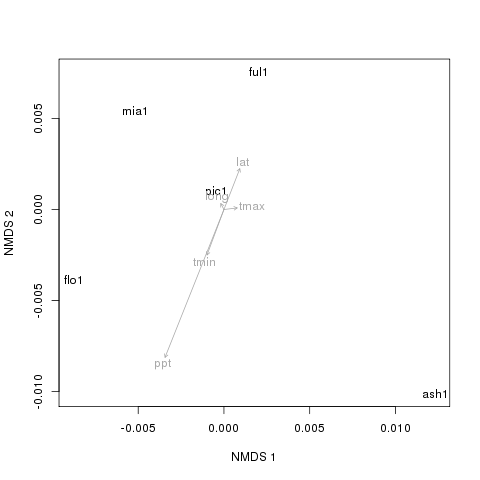
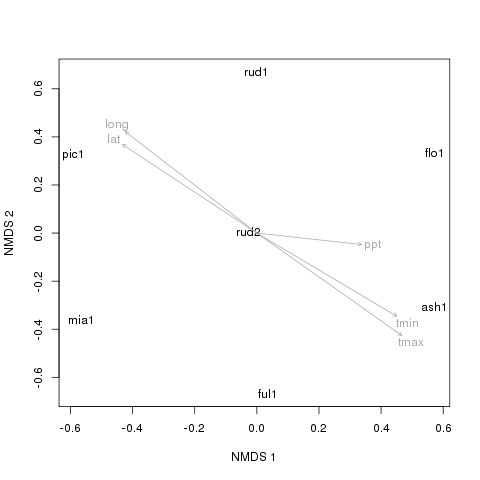
update results to include rudis again

diff --git a/results/worldclim_apg_vectors.tex b/results/worldclim_apg_vectors.tex
@@ -1,32 +1,32 @@
 % latex table generated in R 3.4.2 by xtable 1.8-2 package
-% Sun Feb 18 20:11:44 2018
+% Tue Mar 20 17:26:06 2018
 \begin{table}[ht]
 \centering
 \begin{tabular}{rrr}
   \hline
  & r & p \\ 
   \hline
-MDR: Mean Diurnal Range (Mean of monthly (max temp - min temp)) (BIO2) & 0.811 & 0.150 \\ 
-  PCQ: Precipitation of Coldest Quarter (BIO19) & 0.742 & 0.333 \\ 
-  PA: Annual Precipitation (BIO12) & 0.344 & 0.700 \\ 
-  PWM: Precipitation of Wettest Month (BIO13) & 0.332 & 0.700 \\ 
-  PWeQ: Precipitation of Wettest Quarter (BIO16) & 0.342 & 0.700 \\ 
-  PWaQ: Precipitation of Warmest Quarter (BIO18) & 0.335 & 0.700 \\ 
-  TS: Temperature Seasonality (standard deviation *100) (BIO4) & 0.104 & 0.800 \\ 
-  Tmin: Min Temperature of Coldest Month (BIO6) & 0.066 & 0.800 \\ 
-  ATR: Temperature Annual Range (BIO5-BIO6) (BIO7) & 0.122 & 0.800 \\ 
-  PS: Precipitation Seasonality (Coefficient of Variation) (BIO15) & 0.268 & 0.800 \\ 
-  Latitude & 0.058 & 0.850 \\ 
-  MAT: Annual Mean Temperature (BIO1) & 0.047 & 0.850 \\ 
-  Iso: Isothermality (BIO2/BIO7) (* 100) (BIO3) & 0.069 & 0.850 \\ 
-  MTCQ: Mean Temperature of Coldest Quarter (BIO11) & 0.058 & 0.850 \\ 
-  MTWeQ: Mean Temperature of Wettest Quarter (BIO8) & 0.009 & 0.867 \\ 
-  MTWaQ: Mean Temperature of Warmest Quarter (BIO10) & 0.012 & 0.867 \\ 
-  PDM: Precipitation of Driest Month (BIO14) & 0.026 & 0.867 \\ 
-  Tmax: Max Temperature of Warmest Month (BIO5) & 0.003 & 0.933 \\ 
-  PDQ: Precipitation of Driest Quarter (BIO17) & 0.033 & 0.950 \\ 
-  Longitude & 0.001 & 1.000 \\ 
-  MTDQ: Mean Temperature of Driest Quarter (BIO9) & 0.002 & 1.000 \\ 
+MDR: Mean Diurnal Range (Mean of monthly (max temp - min temp)) (BIO2) & 0.270 & 0.540 \\ 
+  PCQ: Precipitation of Coldest Quarter (BIO19) & 0.252 & 0.542 \\ 
+  PA: Annual Precipitation (BIO12) & 0.203 & 0.659 \\ 
+  PWaQ: Precipitation of Warmest Quarter (BIO18) & 0.173 & 0.703 \\ 
+  PWeQ: Precipitation of Wettest Quarter (BIO16) & 0.173 & 0.707 \\ 
+  PWM: Precipitation of Wettest Month (BIO13) & 0.166 & 0.721 \\ 
+  ATR: Temperature Annual Range (BIO5-BIO6) (BIO7) & 0.128 & 0.771 \\ 
+  MTWeQ: Mean Temperature of Wettest Quarter (BIO8) & 0.093 & 0.799 \\ 
+  TS: Temperature Seasonality (standard deviation *100) (BIO4) & 0.110 & 0.801 \\ 
+  Tmin: Min Temperature of Coldest Month (BIO6) & 0.100 & 0.802 \\ 
+  PS: Precipitation Seasonality (Coefficient of Variation) (BIO15) & 0.127 & 0.802 \\ 
+  Iso: Isothermality (BIO2/BIO7) (* 100) (BIO3) & 0.102 & 0.807 \\ 
+  MTCQ: Mean Temperature of Coldest Quarter (BIO11) & 0.091 & 0.808 \\ 
+  Latitude & 0.089 & 0.815 \\ 
+  MAT: Annual Mean Temperature (BIO1) & 0.084 & 0.816 \\ 
+  MTWaQ: Mean Temperature of Warmest Quarter (BIO10) & 0.064 & 0.845 \\ 
+  Longitude & 0.046 & 0.902 \\ 
+  Tmax: Max Temperature of Warmest Month (BIO5) & 0.039 & 0.912 \\ 
+  MTDQ: Mean Temperature of Driest Quarter (BIO9) & 0.040 & 0.919 \\ 
+  PDQ: Precipitation of Driest Quarter (BIO17) & 0.029 & 0.956 \\ 
+  PDM: Precipitation of Driest Month (BIO14) & 0.024 & 0.959 \\ 
    \hline
 \end{tabular}
 \caption{Results of the NMS ordination vector analysis for only Aphaenogaster spp.} 

diff --git a/results/worldclim_vectors.tex b/results/worldclim_vectors.tex
@@ -1,32 +1,32 @@
 % latex table generated in R 3.4.2 by xtable 1.8-2 package
-% Sun Feb 18 20:11:44 2018
+% Tue Mar 20 17:26:06 2018
 \begin{table}[ht]
 \centering
 \begin{tabular}{rrr}
   \hline
  & r & p \\ 
   \hline
-PCQ: Precipitation of Coldest Quarter (BIO19) & 0.400 & 0.008 \\ 
-  MTWaQ: Mean Temperature of Warmest Quarter (BIO10) & 0.216 & 0.098 \\ 
-  PWM: Precipitation of Wettest Month (BIO13) & 0.216 & 0.100 \\ 
-  PWeQ: Precipitation of Wettest Quarter (BIO16) & 0.206 & 0.114 \\ 
-  PA: Annual Precipitation (BIO12) & 0.203 & 0.119 \\ 
-  Tmax: Max Temperature of Warmest Month (BIO5) & 0.188 & 0.142 \\ 
-  Iso: Isothermality (BIO2/BIO7) (* 100) (BIO3) & 0.184 & 0.145 \\ 
-  Longitude & 0.178 & 0.153 \\ 
-  MAT: Annual Mean Temperature (BIO1) & 0.176 & 0.159 \\ 
-  Tmin: Min Temperature of Coldest Month (BIO6) & 0.166 & 0.181 \\ 
-  MTDQ: Mean Temperature of Driest Quarter (BIO9) & 0.162 & 0.186 \\ 
-  MTCQ: Mean Temperature of Coldest Quarter (BIO11) & 0.148 & 0.215 \\ 
-  ATR: Temperature Annual Range (BIO5-BIO6) (BIO7) & 0.136 & 0.249 \\ 
-  MDR: Mean Diurnal Range (Mean of monthly (max temp - min temp)) (BIO2) & 0.114 & 0.313 \\ 
-  TS: Temperature Seasonality (standard deviation *100) (BIO4) & 0.089 & 0.412 \\ 
-  PDM: Precipitation of Driest Month (BIO14) & 0.090 & 0.413 \\ 
-  MTWeQ: Mean Temperature of Wettest Quarter (BIO8) & 0.087 & 0.428 \\ 
-  Latitude & 0.051 & 0.608 \\ 
-  PS: Precipitation Seasonality (Coefficient of Variation) (BIO15) & 0.037 & 0.695 \\ 
-  PDQ: Precipitation of Driest Quarter (BIO17) & 0.037 & 0.699 \\ 
-  PWaQ: Precipitation of Warmest Quarter (BIO18) & 0.007 & 0.937 \\ 
+PCQ: Precipitation of Coldest Quarter (BIO19) & 0.406 & 0.004 \\ 
+  Iso: Isothermality (BIO2/BIO7) (* 100) (BIO3) & 0.386 & 0.005 \\ 
+  MTDQ: Mean Temperature of Driest Quarter (BIO9) & 0.307 & 0.019 \\ 
+  PWM: Precipitation of Wettest Month (BIO13) & 0.285 & 0.029 \\ 
+  PWeQ: Precipitation of Wettest Quarter (BIO16) & 0.279 & 0.032 \\ 
+  Tmin: Min Temperature of Coldest Month (BIO6) & 0.276 & 0.033 \\ 
+  MAT: Annual Mean Temperature (BIO1) & 0.265 & 0.037 \\ 
+  MTCQ: Mean Temperature of Coldest Quarter (BIO11) & 0.263 & 0.039 \\ 
+  ATR: Temperature Annual Range (BIO5-BIO6) (BIO7) & 0.237 & 0.058 \\ 
+  PA: Annual Precipitation (BIO12) & 0.241 & 0.058 \\ 
+  MTWaQ: Mean Temperature of Warmest Quarter (BIO10) & 0.236 & 0.059 \\ 
+  TS: Temperature Seasonality (standard deviation *100) (BIO4) & 0.232 & 0.061 \\ 
+  Longitude & 0.211 & 0.081 \\ 
+  PDM: Precipitation of Driest Month (BIO14) & 0.198 & 0.098 \\ 
+  Latitude & 0.188 & 0.111 \\ 
+  MTWeQ: Mean Temperature of Wettest Quarter (BIO8) & 0.153 & 0.173 \\ 
+  PDQ: Precipitation of Driest Quarter (BIO17) & 0.132 & 0.223 \\ 
+  Tmax: Max Temperature of Warmest Month (BIO5) & 0.133 & 0.225 \\ 
+  PS: Precipitation Seasonality (Coefficient of Variation) (BIO15) & 0.106 & 0.305 \\ 
+  MDR: Mean Diurnal Range (Mean of monthly (max temp - min temp)) (BIO2) & 0.082 & 0.409 \\ 
+  PWaQ: Precipitation of Warmest Quarter (BIO18) & 0.038 & 0.671 \\ 
    \hline
 \end{tabular}
 \caption{Results of the NMS ordination vector analysis.} 

diff --git a/results/clim_cor.tex b/results/clim_cor.tex
@@ -1,14 +1,14 @@
 % latex table generated in R 3.4.2 by xtable 1.8-2 package
-% Sun Feb 18 20:11:44 2018
+% Tue Mar 20 17:26:07 2018
 \begin{table}[ht]
 \centering
 \begin{tabular}{rrrrrrrll}
   \hline
  & estimate & statistic & p.value & parameter & conf.low & conf.high & method & alternative \\ 
   \hline
-cor.tminmax & 0.91980 & 4.05998 & 0.02694 &      3 & 0.19910 & 0.99479 & Pearson's product-moment correlation & two.sided \\ 
-  cor.ppttmax & 0.24817 & 0.44372 & 0.68730 &      3 & -0.81185 & 0.92738 & Pearson's product-moment correlation & two.sided \\ 
-  cor.ppttmin & 0.58327 & 1.24372 & 0.30193 &      3 & -0.61598 & 0.96761 & Pearson's product-moment correlation & two.sided \\ 
+cor.tminmax & 0.91543 & 5.08608 & 0.00381 &      5 & 0.52274 & 0.98764 & Pearson's product-moment correlation & two.sided \\ 
+  cor.ppttmax & 0.28727 & 0.67062 & 0.53219 &      5 & -0.59437 & 0.85530 & Pearson's product-moment correlation & two.sided \\ 
+  cor.ppttmin & 0.61746 & 1.75525 & 0.13957 &      5 & -0.25345 & 0.93552 & Pearson's product-moment correlation & two.sided \\ 
    \hline
 \end{tabular}
 \end{table}

diff --git a/results/mantel_tab.tex b/results/mantel_tab.tex
@@ -1,21 +1,21 @@
 % latex table generated in R 3.4.2 by xtable 1.8-2 package
-% Sun Feb 18 20:11:44 2018
+% Tue Mar 20 17:26:08 2018
 \begin{table}[ht]
 \centering
 \begin{tabular}{rrr}
   \hline
  & mantelr & pval1 \\ 
   \hline
-clim.geo & 0.89467 & 0.01860 \\ 
-  mash.clim & -0.39078 & 0.78720 \\ 
-  mash.temp & -0.38767 & 0.93050 \\ 
-  temp.geo & 0.99611 & 0.01570 \\ 
-  mash.temp\_geo & -0.18711 & 0.73650 \\ 
-  mash.tmin\_geo & 0.21333 & 0.00010 \\ 
-  mash.tmax\_geo & -0.20250 & 0.91550 \\ 
-  ppt & -0.09025 & 0.41950 \\ 
-  ppt.geo & 0.14526 & 0.24840 \\ 
-  mash.ppt\_geo & -0.03917 & 0.34850 \\ 
+clim.geo & 0.91976 & 0.00270 \\ 
+  mash.clim & -0.18725 & 0.70360 \\ 
+  mash.temp & -0.29266 & 0.89480 \\ 
+  temp.geo & 0.98394 & 0.00170 \\ 
+  mash.temp\_geo & -0.22127 & 0.71800 \\ 
+  mash.tmin\_geo & 0.29977 & 0.10600 \\ 
+  mash.tmax\_geo & -0.25650 & 0.81110 \\ 
+  ppt & 0.18435 & 0.12460 \\ 
+  ppt.geo & 0.22504 & 0.10750 \\ 
+  mash.ppt\_geo & 0.25772 & 0.09920 \\ 
    \hline
 \end{tabular}
 \end{table}

diff --git a/results/climate.tex b/results/climate.tex
@@ -1,5 +1,5 @@
 % latex table generated in R 3.4.2 by xtable 1.8-2 package
-% Sun Feb 18 20:11:48 2018
+% Tue Mar 20 17:26:28 2018
 \begin{table}[ht]
 \centering
 \begin{tabular}{rrrrrr}
@@ -11,6 +11,8 @@
   {\emph{Aphaenogaster fulva}} & 32.69 & -82.51 & 1.83 & 33.81 & 1156.81 \\ 
   {\emph{Aphaenogaster miamiana}} & 29.66 & -82.30 & 5.87 & 32.75 & 1254.72 \\ 
   {\emph{Aphaenogaster picea}} & 42.60 & -72.58 & -11.11 & 28.12 & 1199.06 \\ 
+  {\emph{Aphaenogaster rudis1}} & 36.02 & -78.98 & -1.82 & 31.60 & 1168.41 \\ 
+  {\emph{Aphaenogaster rudis2}} & 36.02 & -78.98 & -1.82 & 31.60 & 1168.41 \\ 
    \hline
 \end{tabular}
 \caption{Climate variables for colony sample sites. Climate are 30 year normal values (1976-2016) for January minimum temperature (Tmin), July maximum temperature (Tmax) and total precipitation (Precip).} 

diff --git a/results/lm_sizegeo.tex b/results/lm_sizegeo.tex
@@ -1,15 +1,15 @@
 % latex table generated in R 3.4.2 by xtable 1.8-2 package
-% Sun Feb 18 20:11:44 2018
+% Tue Mar 20 17:26:09 2018
 \begin{table}[ht]
 \centering
 \begin{tabular}{rrrrr}
   \hline
  & Estimate & Std. Error & t value & Pr($>$$|$t$|$) \\ 
   \hline
-(Intercept) & 297.0526 & 36.0901 & 8.23 & 0.0000 \\ 
-  lon & 0.1582 & 0.4772 & 0.33 & 0.7440 \\ 
-  lat & -0.4280 & 1.1561 & -0.37 & 0.7155 \\ 
-  lon:lat & -0.0166 & 0.0161 & -1.03 & 0.3170 \\ 
+(Intercept) & 299.1758 & 38.9474 & 7.68 & 0.0000 \\ 
+  lon & 0.2663 & 0.5125 & 0.52 & 0.6091 \\ 
+  lat & -0.2312 & 1.2445 & -0.19 & 0.8545 \\ 
+  lon:lat & -0.0226 & 0.0172 & -1.32 & 0.2024 \\ 
    \hline
 \end{tabular}
 \caption{F-table for the regression of genome size and geographic position showing the additive and interactive effects tests.} 

diff --git a/results/mash_path.tex b/results/mash_path.tex
@@ -1,14 +1,14 @@
 % latex table generated in R 3.4.2 by xtable 1.8-2 package
-% Sun Feb 18 20:11:47 2018
+% Tue Mar 20 17:26:26 2018
 \begin{table}[ht]
 \centering
 \begin{tabular}{rllll}
   \hline
  & Geographic Distance & Temperature Difference & Precipitation Difference & Genomic Distance (MASH) \\ 
   \hline
-Geographic Distance &  & 0.89, 0.017 & 0.223, 0.497 &  \\ 
-  Temperature Difference &  &  & -0.156, 0.608 & -0.689, 0.272 \\ 
-  Precipitation Difference &  & -0.156, 0.67 &  & -0.239, 0.653 \\ 
+Geographic Distance &  & 0.828, 0.001 & 0.315, 0.045 &  \\ 
+  Temperature Difference &  &  & -0.251, 0.169 & -0.555, 0.079 \\ 
+  Precipitation Difference &  & -0.251, 0.216 &  & 0.049, 0.764 \\ 
   Genomic Distance (MASH) &  &  &  &  \\ 
    \hline
 \end{tabular}
